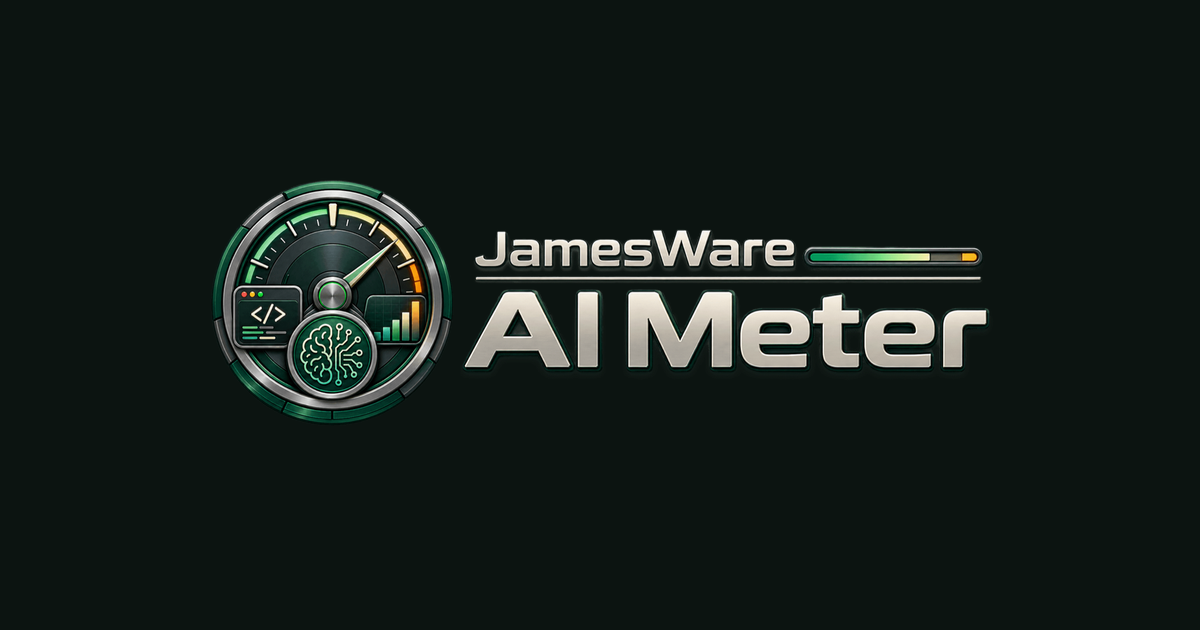
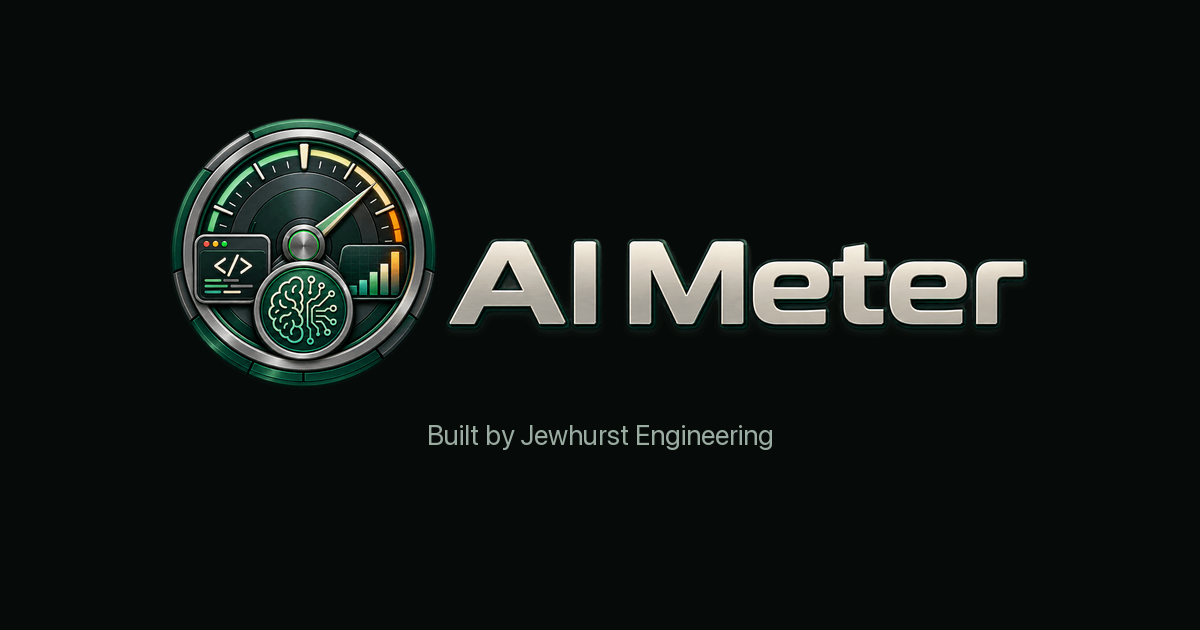
chore: rebrand maker identity to Jewhurst Engineering
JamesWare is retired. AI Meter stays AI Meter, and the current app and site should say Jewhurst Engineering makes it.

Changed region(s): [[0.1233, 0.181, 0.8633, 0.6937], [0.3392, 0.6635, 0.6475, 0.7238]]

diff --git a/site/index.html b/site/index.html
@@ -5,6 +5,7 @@
   <meta name="viewport" content="width=device-width, initial-scale=1">
   <title>AI Meter — Cursor, Claude, and Codex in the menu bar</title>
   <meta name="description" content="A local menu bar meter for Cursor, Claude, and Codex. Included pools, rolling windows, and on-demand spend, read from the sessions already on your Mac.">
+  <meta name="author" content="Jewhurst Engineering">
   <link rel="canonical" href="https://aiusagemeter.app/">
   <meta name="theme-color" content="#060a08">
   <meta property="og:type" content="website">
@@ -29,6 +30,11 @@
     "@context": "https://schema.org",
     "@type": "SoftwareApplication",
     "name": "AI Meter",
+    "author": {
+      "@type": "Organization",
+      "name": "Jewhurst Engineering",
+      "url": "https://github.com/JewhurstEngineering"
+    },
     "applicationCategory": "DeveloperApplication",
     "operatingSystem": "macOS 14 or later",
     "softwareVersion": "1.0.8",
@@ -171,7 +177,6 @@
             <label class="choice"><input type="radio" name="settings" value="paid"> Paid usage</label>
             <label class="choice"><input type="radio" name="settings" value="authentication"> Authentication</label>
             <label class="choice"><input type="radio" name="settings" value="accessibility"> Accessibility</label>
-            <label class="choice"><input type="radio" name="settings" value="about"> About</label>
           </div>
           <div class="stage">
             <figure data-page="general">
@@ -201,10 +206,6 @@
             <figure data-page="accessibility">
               <img src="assets/aimeter-settings-accessibility.png" width="1936" height="1366" alt="Accessibility settings for interface size, text size, and color-vision palettes including deuteranopia, protanopia, tritanopia, and monochrome." loading="lazy">
               <figcaption>Larger type without zooming the whole window, and palettes that stay distinct if color is not enough.</figcaption>
-            </figure>
-            <figure data-page="about">
-              <img src="assets/aimeter-settings-about.png" width="1936" height="1366" alt="About settings with Install to Applications, desktop widget presets, and a note that session tokens stay in Keychain." loading="lazy">
-              <figcaption>Install to Applications lives here, along with the desktop widget presets.</figcaption>
             </figure>
           </div>
         </fieldset>
@@ -281,7 +282,8 @@
     </section>
 
     <section class="wrap download" id="download" aria-labelledby="download-title">
-      <img class="lockup" src="assets/lockup.png" width="1200" height="400" alt="JamesWare AI Meter">
+      <img class="lockup" src="assets/lockup.png" width="1400" height="441" alt="AI Meter">
+      <p class="fine">Built by Jewhurst Engineering.</p>
       <h2 id="download-title">Put it in the menu bar.</h2>
       <ol class="steps steps-inline">
         <li>Unzip and open AI Meter.</li>
@@ -299,13 +301,13 @@
 
   <footer class="site-footer">
     <div class="wrap footer-bar">
-      <p>AI Meter is an independent open-source project. It is not affiliated with, endorsed by, or sponsored by Anysphere, Cursor, Anthropic, or OpenAI. Cursor, Claude, and Codex are trademarks of their respective owners.</p>
+      <p>Built by Jewhurst Engineering. AI Meter is an independent open-source project. It is not affiliated with, endorsed by, or sponsored by Anysphere, Cursor, Anthropic, or OpenAI. Cursor, Claude, and Codex are trademarks of their respective owners.</p>
       <p class="footer-links">
         <a href="https://github.com/JewhurstEngineering/ai-meter">GitHub</a>
         <a href="https://github.com/JewhurstEngineering/ai-meter/blob/master/LICENSE">MIT license</a>
-        <a href="https://jamesware.dev">JamesWare.dev</a>
+        <a href="https://github.com/JewhurstEngineering">Jewhurst Engineering</a>
       </p>
-      <p class="fine">Copyright © 2026 JamesWare.dev</p>
+      <p class="fine">Copyright © 2026 Jewhurst Engineering</p>
     </div>
   </footer>
 </body>

diff --git a/Apps/Shared/AppAbout.swift b/Apps/Shared/AppAbout.swift
@@ -2,9 +2,10 @@ import Foundation
 
 enum AppAbout {
     static let productName = "AI Meter"
-    static let productLegalName = "JamesWare AI Meter"
-    static let copyrightHolder = "JAMESWARE.DEV"
-    static let organization = "JamesWare.dev"
+    static let productLegalName = "AI Meter"
+    static let copyrightHolder = "Jewhurst Engineering"
+    static let organization = "Jewhurst Engineering"
+    static let makerAttribution = "Built by Jewhurst Engineering"
     static var copyrightYear: String {
         String(Calendar.current.component(.year, from: Date()))
     }
@@ -13,7 +14,7 @@ enum AppAbout {
     static let billingURL = URL(string: "https://cursor.com/dashboard/billing")!
     static let releasesURL = URL(string: "https://github.com/JewhurstEngineering/ai-meter/releases/latest")!
     static let affiliationDisclaimer =
-        "JamesWare AI Meter is an independent open-source project and is not affiliated with, endorsed by, or sponsored by Anysphere, Cursor, Anthropic, or OpenAI."
+        "AI Meter is an independent open-source project and is not affiliated with, endorsed by, or sponsored by Anysphere, Cursor, Anthropic, or OpenAI."
 
     static var copyrightLine: String {
         "Copyright © \(copyrightYear) \(copyrightHolder)"

diff --git a/Apps/iOS/AIMeteriOS/PhoneSettingsPages.swift b/Apps/iOS/AIMeteriOS/PhoneSettingsPages.swift
@@ -670,11 +670,14 @@ struct PhoneAboutSettings: View {
     var body: some View {
         List {
             Section {
-                AppFullLogo(height: 92, color: true)
-                    .frame(maxWidth: .infinity)
-                    .padding(.vertical, 8)
-                    .listRowBackground(Color.clear)
-                    .listRowInsets(EdgeInsets(top: 8, leading: 20, bottom: 4, trailing: 20))
+                HStack(spacing: 12) {
+                    AppLogo(size: 64)
+                    AppNameLogo(height: 28)
+                }
+                .frame(maxWidth: .infinity)
+                .padding(.vertical, 8)
+                .listRowBackground(Color.clear)
+                .listRowInsets(EdgeInsets(top: 8, leading: 20, bottom: 4, trailing: 20))
             }
             Section {
                 LabeledContent("Version", value: version)

diff --git a/Apps/Shared/AppLogo.swift b/Apps/Shared/AppLogo.swift
@@ -1,6 +1,6 @@
 import SwiftUI
 
-/// Color square mark, menu-bar template silhouette, or full wordmark.
+/// Color square mark, or the menu-bar template silhouette.
 struct AppLogo: View {
     var size: CGFloat = 34
     var template: Bool = false
@@ -13,21 +13,6 @@ struct AppLogo: View {
             .accessibilityHidden(true)
         return image
             .frame(width: size, height: size)
-    }
-}
-
-/// Wide JamesWare AI Meter wordmark. Color, or black/white by appearance.
-struct AppFullLogo: View {
-    var height: CGFloat = 24
-    var color: Bool = false
-
-    var body: some View {
-        Image(color ? "AppLogoFullBrand" : "AppLogoFull")
-            .resizable()
-            .interpolation(.high)
-            .scaledToFit()
-            .accessibilityHidden(true)
-            .frame(height: height)
     }
 }
 

diff --git a/Tests/AIMeterTests/AppLayerTests.swift b/Tests/AIMeterTests/AppLayerTests.swift
@@ -24,9 +24,12 @@ final class SparklePlistTests: XCTestCase {
 final class AppAboutTests: XCTestCase {
     func testProductCopy() {
         XCTAssertEqual(AppAbout.productName, "AI Meter")
-        XCTAssertEqual(AppAbout.productLegalName, "JamesWare AI Meter")
+        XCTAssertEqual(AppAbout.productLegalName, "AI Meter")
+        XCTAssertEqual(AppAbout.organization, "Jewhurst Engineering")
+        XCTAssertEqual(AppAbout.makerAttribution, "Built by Jewhurst Engineering")
         XCTAssertEqual(AppAbout.licenseName, "MIT")
         XCTAssertTrue(AppAbout.copyrightLine.contains(AppAbout.copyrightHolder))
+        XCTAssertFalse(AppAbout.affiliationDisclaimer.localizedCaseInsensitiveContains("jamesware"))
     }
 
     func testPublicURLs() {

diff --git a/site/styles.css b/site/styles.css
@@ -484,8 +484,7 @@ tbody th {
 .switcher:has(input[value="included"]:checked) figure[data-page="included"],
 .switcher:has(input[value="paid"]:checked) figure[data-page="paid"],
 .switcher:has(input[value="authentication"]:checked) figure[data-page="authentication"],
-.switcher:has(input[value="accessibility"]:checked) figure[data-page="accessibility"],
-.switcher:has(input[value="about"]:checked) figure[data-page="about"] {
+.switcher:has(input[value="accessibility"]:checked) figure[data-page="accessibility"] {
   display: grid;
   gap: 14px;
 }

diff --git a/Apps/macOS/AIMeter/Settings/SettingsRootView.swift b/Apps/macOS/AIMeter/Settings/SettingsRootView.swift
@@ -37,8 +37,8 @@ struct SettingsRootView: View {
         )
         .background(SettingsResizeUnlock())
         .overlay(alignment: .bottom) {
-            AppFullLogo(height: 96)
-                .frame(maxWidth: 300)
+            AppNameLogo(height: 36)
+                .frame(maxWidth: 220)
                 .padding(.bottom, 24)
                 .opacity(0.10)
                 .allowsHitTesting(false)

diff --git a/Apps/macOS/AIMeter/Settings/IncludedPaidAboutSettings.swift b/Apps/macOS/AIMeter/Settings/IncludedPaidAboutSettings.swift
@@ -869,7 +869,7 @@ struct AboutSettingsView: View {
                         .font(.caption)
                         .foregroundStyle(.secondary)
                 }
-                Text(AppAbout.organization)
+                Text(AppAbout.makerAttribution)
                     .font(.caption)
                     .foregroundStyle(.secondary)
                 Text(AppAbout.copyrightLine)

diff --git a/vscode/src/utils/formatting.test.ts b/vscode/src/utils/formatting.test.ts
@@ -82,6 +82,8 @@ describe("copySummary", () => {
     assert.match(text, /Other Models: 42%/);
     assert.match(text, /Total: 55%/);
     assert.match(text, /On-Demand: \$8\.42/);
+    assert.match(text, /via AI Meter/);
+    assert.doesNotMatch(text, /JamesWare/i);
     assert.doesNotMatch(text, /token|cookie|@/i);
   });
 });

diff --git a/vscode/src/utils/formatting.ts b/vscode/src/utils/formatting.ts
@@ -136,7 +136,7 @@ export function copySummary(snapshot: UsageSnapshot, now = new Date()): string {
     `On-Demand: ${formatUsdFromCents(snapshot.onDemandUsedCents)}`,
     `Reset: ${reset}`,
     "",
-    "via JamesWare AI Meter",
+    "via AI Meter",
   ];
   return lines.join("\n");
 }

diff --git a/BRAND_MIGRATION_REPORT.md b/BRAND_MIGRATION_REPORT.md
@@ -1,0 +1,79 @@
+# AI Meter brand migration
+
+JamesWare is no longer the maker on current AI Meter surfaces. The product name is still AI Meter. The maker line is Jewhurst Engineering.
+
+## References found
+
+### Active public branding (changed)
+
+- About copy in `AppAbout`: product title, organization, copyright, and the unaffiliated disclaimer
+- Mac Settings → About, and the faint settings watermark
+- iPhone About logo and Developer row
+- Mac human-readable copyright in `Info.plist`, `project.yml`, and the Xcode project
+- README, extension README, and the Cursor data-source note
+- Extension display name, settings title, and the copied usage summary sign-off
+- Site footer, lockup alt text, Open Graph card, and structured data
+- Wordmarks that rendered the word JamesWare
+- Settings screenshots whose watermark spelled JamesWare
+- The About screenshot, which showed the old About panel in full
+
+### Stable technical identifiers (unchanged)
+
+- Bundle IDs, `com.jamesware.aimeter.*`
+- App groups and the keychain access group / service name
+- Background refresh identifier
+- VS Code publisher `jamesware` and extension id `ai-meter`
+- Sparkle feed, still `github.com/JewhurstEngineering/ai-meter`
+- Repository slug and GitHub org
+
+Renaming any of those would break upgrades, signing, keychain access, or an already-installed extension.
+
+### Historical / legal (unchanged)
+
+- `LICENSE` still names James Jewhurst
+- Git history and shipped release notes were not rewritten
+
+### URL
+
+- `aiusagemeter.app` stays the live product site and the canonical URL. `jewhurst.dev` did not resolve when this was checked, so the site and app do not link there yet. Maker credit goes to `github.com/JewhurstEngineering`.
+- This repo does not link to or request the old maker domain. Nothing in the app, updater, or site depends on it resolving.
+
+## Changed
+
+- Current copy says AI Meter, built by Jewhurst Engineering.
+- The color lockup and the social card no longer include the JamesWare line.
+- In-app full wordmarks that said JamesWare were removed. About uses the gauge plus the AI Meter name. The settings watermark is the name only.
+- Settings screenshots had the JamesWare watermark line painted out. Real labels were left alone. A faint AI Meter watermark is still in those shots.
+- The About screenshot was taken off the site and the README because the panel itself said JamesWare.
+- The site download `ai-meter-0.1.6.vsix` was repackaged from this source. The extension still publishes as `jamesware`, so installs keep the same id.
+
+## Intentionally unchanged
+
+- Bundle IDs, app groups, keychain identifiers, and the extension publisher. Those are how installs, widgets, and updates find each other.
+- Sparkle still checks GitHub Releases. The feed URL did not move.
+- The product site stays on `aiusagemeter.app` until `jewhurst.dev/ai-meter` exists.
+- The MIT license copyright stays James Jewhurst.
+
+## Redirect dependencies
+
+- `jewhurst.dev` and `jewhurst.dev/ai-meter` are the intended workshop URLs. They were not live on 28 September 2026, so they are not linked yet.
+- `aiusagemeter.app` remains the product page this repo deploys.
+
+## Assets still needed
+
+- A new Settings → About screenshot after a build with this copy. The old one was removed rather than faked.
+- A `jewhurst.dev/ai-meter` page, then the footer and canonical URL can move there.
+
+## Verification
+
+- Extension tests: 30 passed (`tsc` and `node --test` in `vscode/`).
+- Mac unit tests: 10 passed, including `AppAboutTests`. Sparkle feed URL still matches GitHub Releases.
+- Site HTML parses with matching tags. No browser click-through. The settings switcher is CSS-only.
+
+## Manual QA
+
+- Open Settings → About on Mac and confirm the title is AI Meter, the line under the version is “Built by Jewhurst Engineering,” and the copyright names Jewhurst Engineering.
+- Open About on iPhone and confirm the Developer row says Jewhurst Engineering and the logo does not say JamesWare.
+- Copy a usage summary from the extension and confirm the last line is `via AI Meter`.
+- Load the site, switch every settings tab, and check the footer and the download lockup.
+- Confirm Sparkle still points at the GitHub appcast before the next Mac release.

diff --git a/vscode/README.md b/vscode/README.md
@@ -1,10 +1,10 @@
-# JamesWare AI Meter
+# AI Meter
 
 A Cursor / VS Code extension that shows AI usage in the status bar.
 
 > See your Cursor AI usage, spend, and reset date without leaving your editor.
 
-This is the editor client of JamesWare AI Meter. The macOS, iPhone, and Watch apps live at the root of this repo. The extension is its own TypeScript project under `vscode/` and does not import the Swift package. Install the VSIX on its own. It is not inside the Mac download.
+This is the editor client of AI Meter, built by Jewhurst Engineering. The macOS, iPhone, and Watch apps live at the root of this repo. The extension is its own TypeScript project under `vscode/` and does not import the Swift package. Install the VSIX on its own. It is not inside the Mac download.
 
 ## What it shows
 
@@ -14,7 +14,7 @@ This is the editor client of JamesWare AI Meter. The macOS, iPhone, and Watch ap
 - Billing-cycle reset date
 - Configurable warning / critical thresholds
 
-Usage snapshots stay on this machine. No JamesWare account is required.
+Usage snapshots stay on this machine. No account is required.
 
 ## Install (local)
 
@@ -52,7 +52,7 @@ If that fails, **AI Meter: Paste Token** is the escape hatch. Tokens stay in Sec
 
 Local-first. The extension reads billing/usage metadata only. It does not inspect source code, prompts, or chats.
 
-JamesWare AI Meter is an independent open-source project and is not affiliated with, endorsed by, or sponsored by Anysphere or Cursor.
+AI Meter is an independent open-source project and is not affiliated with, endorsed by, or sponsored by Anysphere or Cursor.
 
 ## License
 
